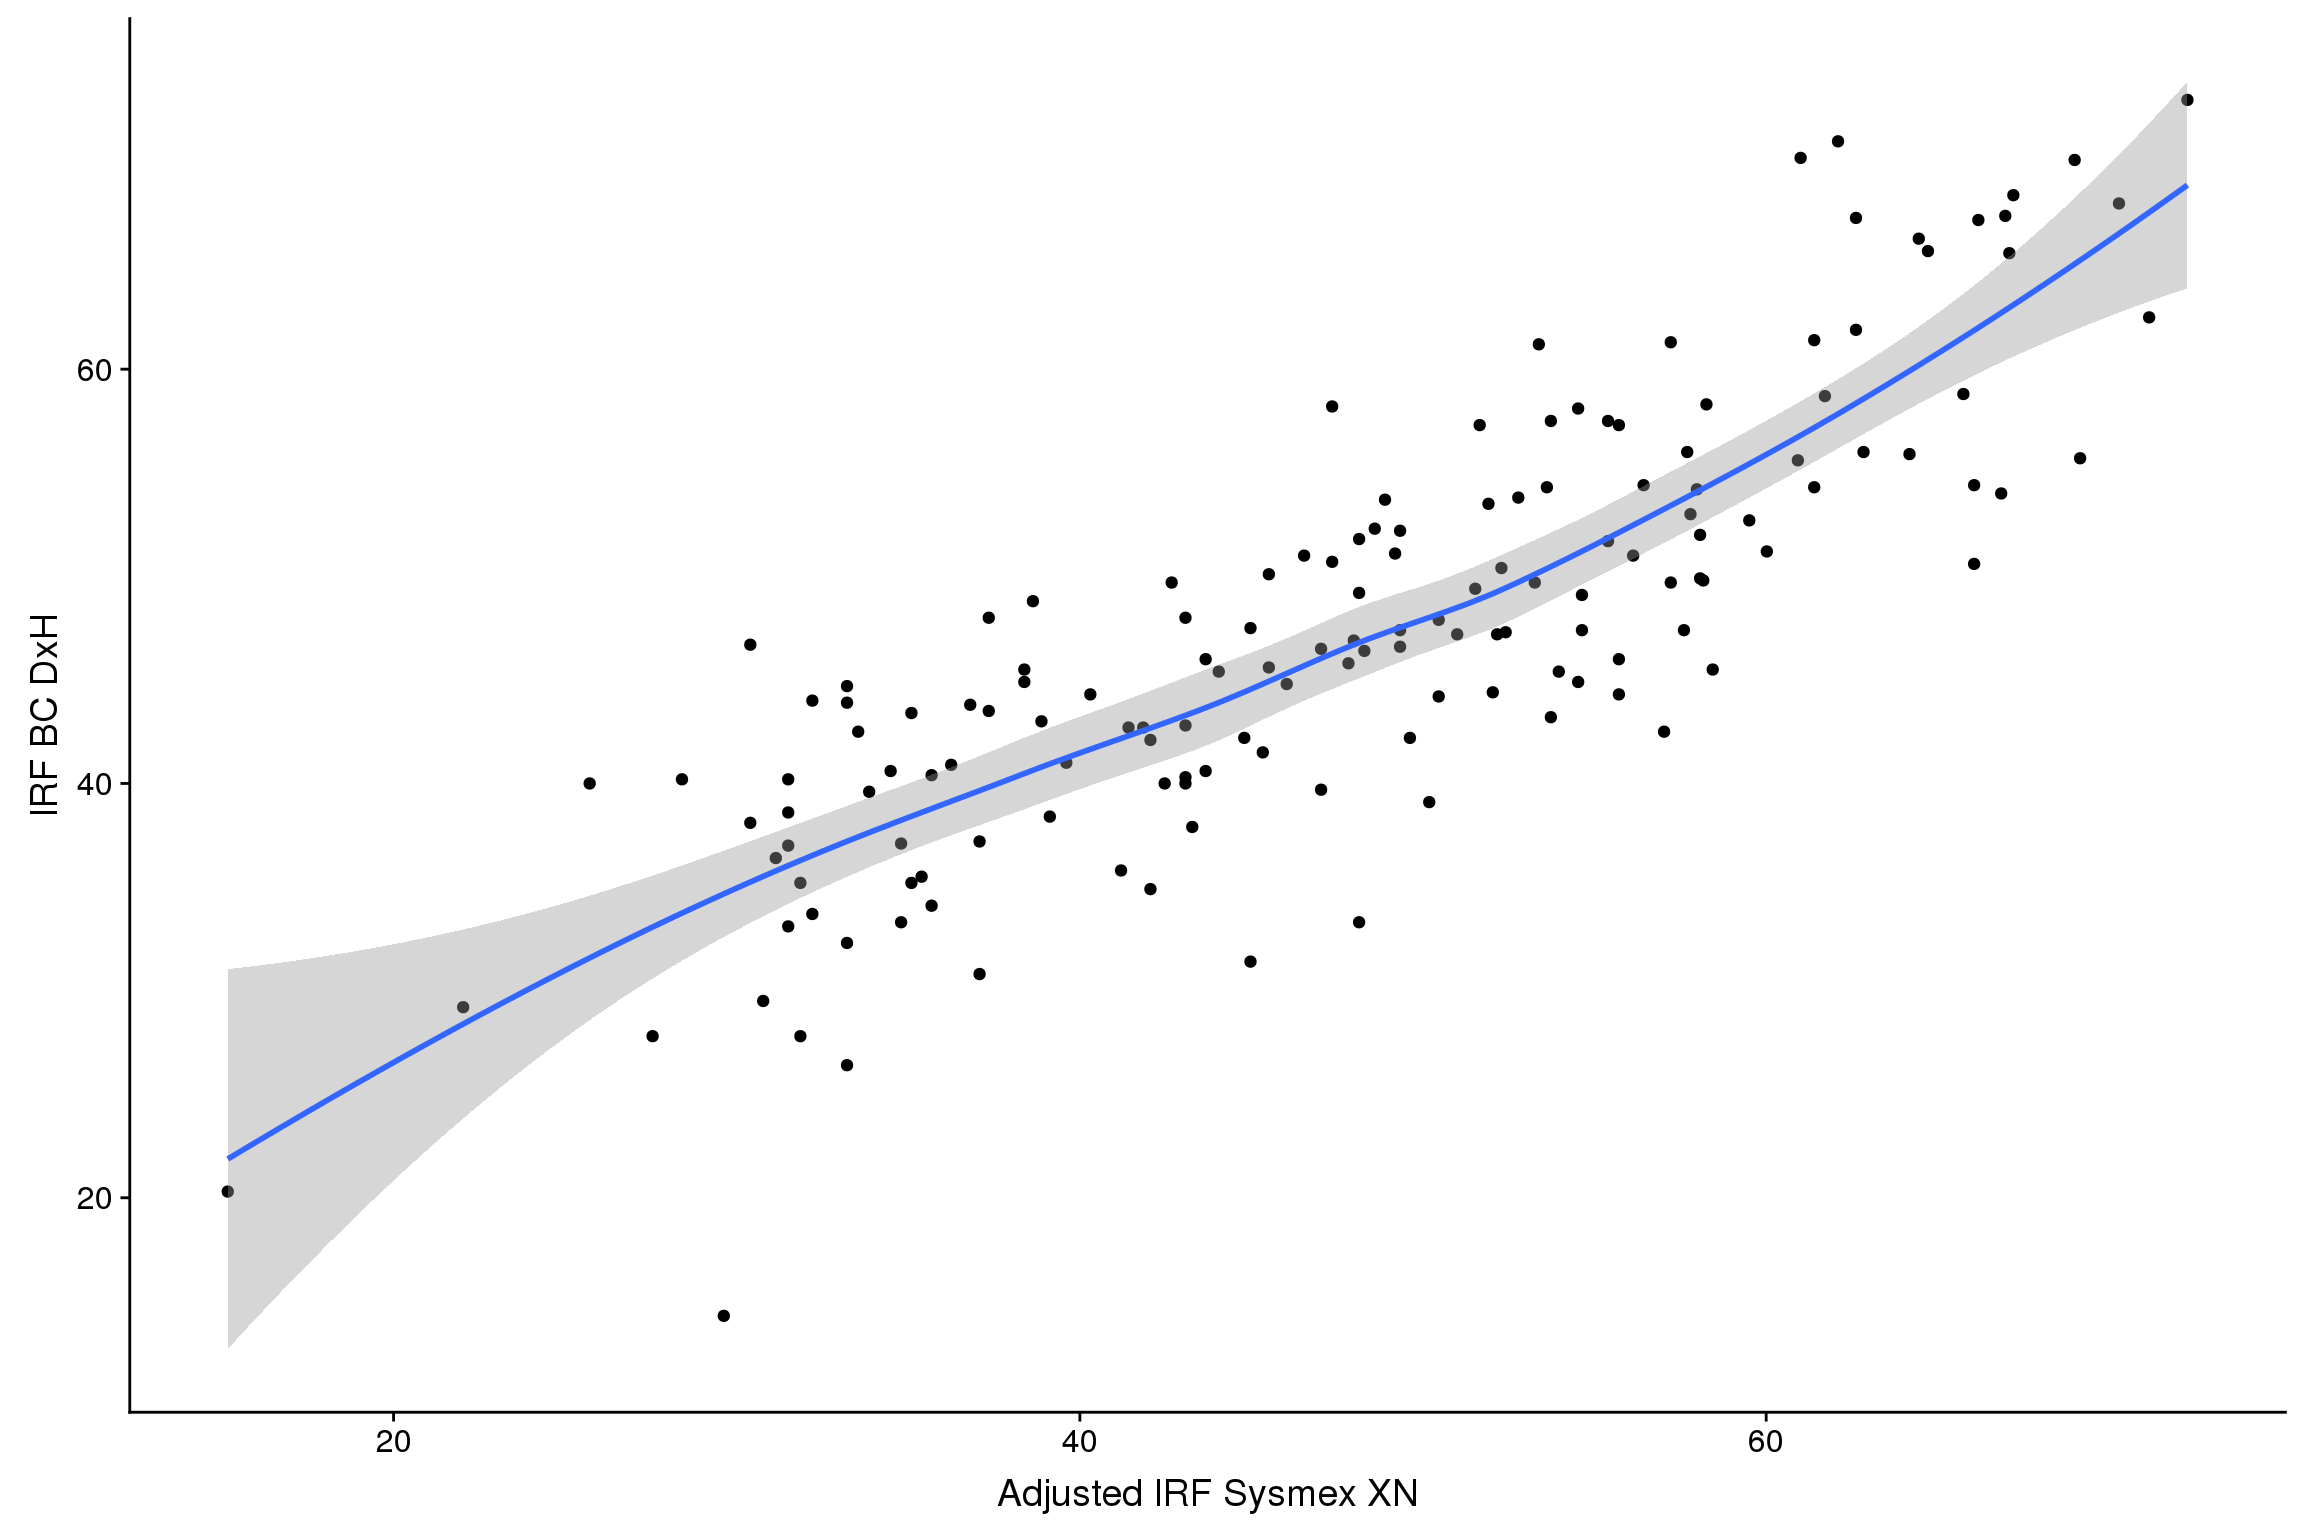
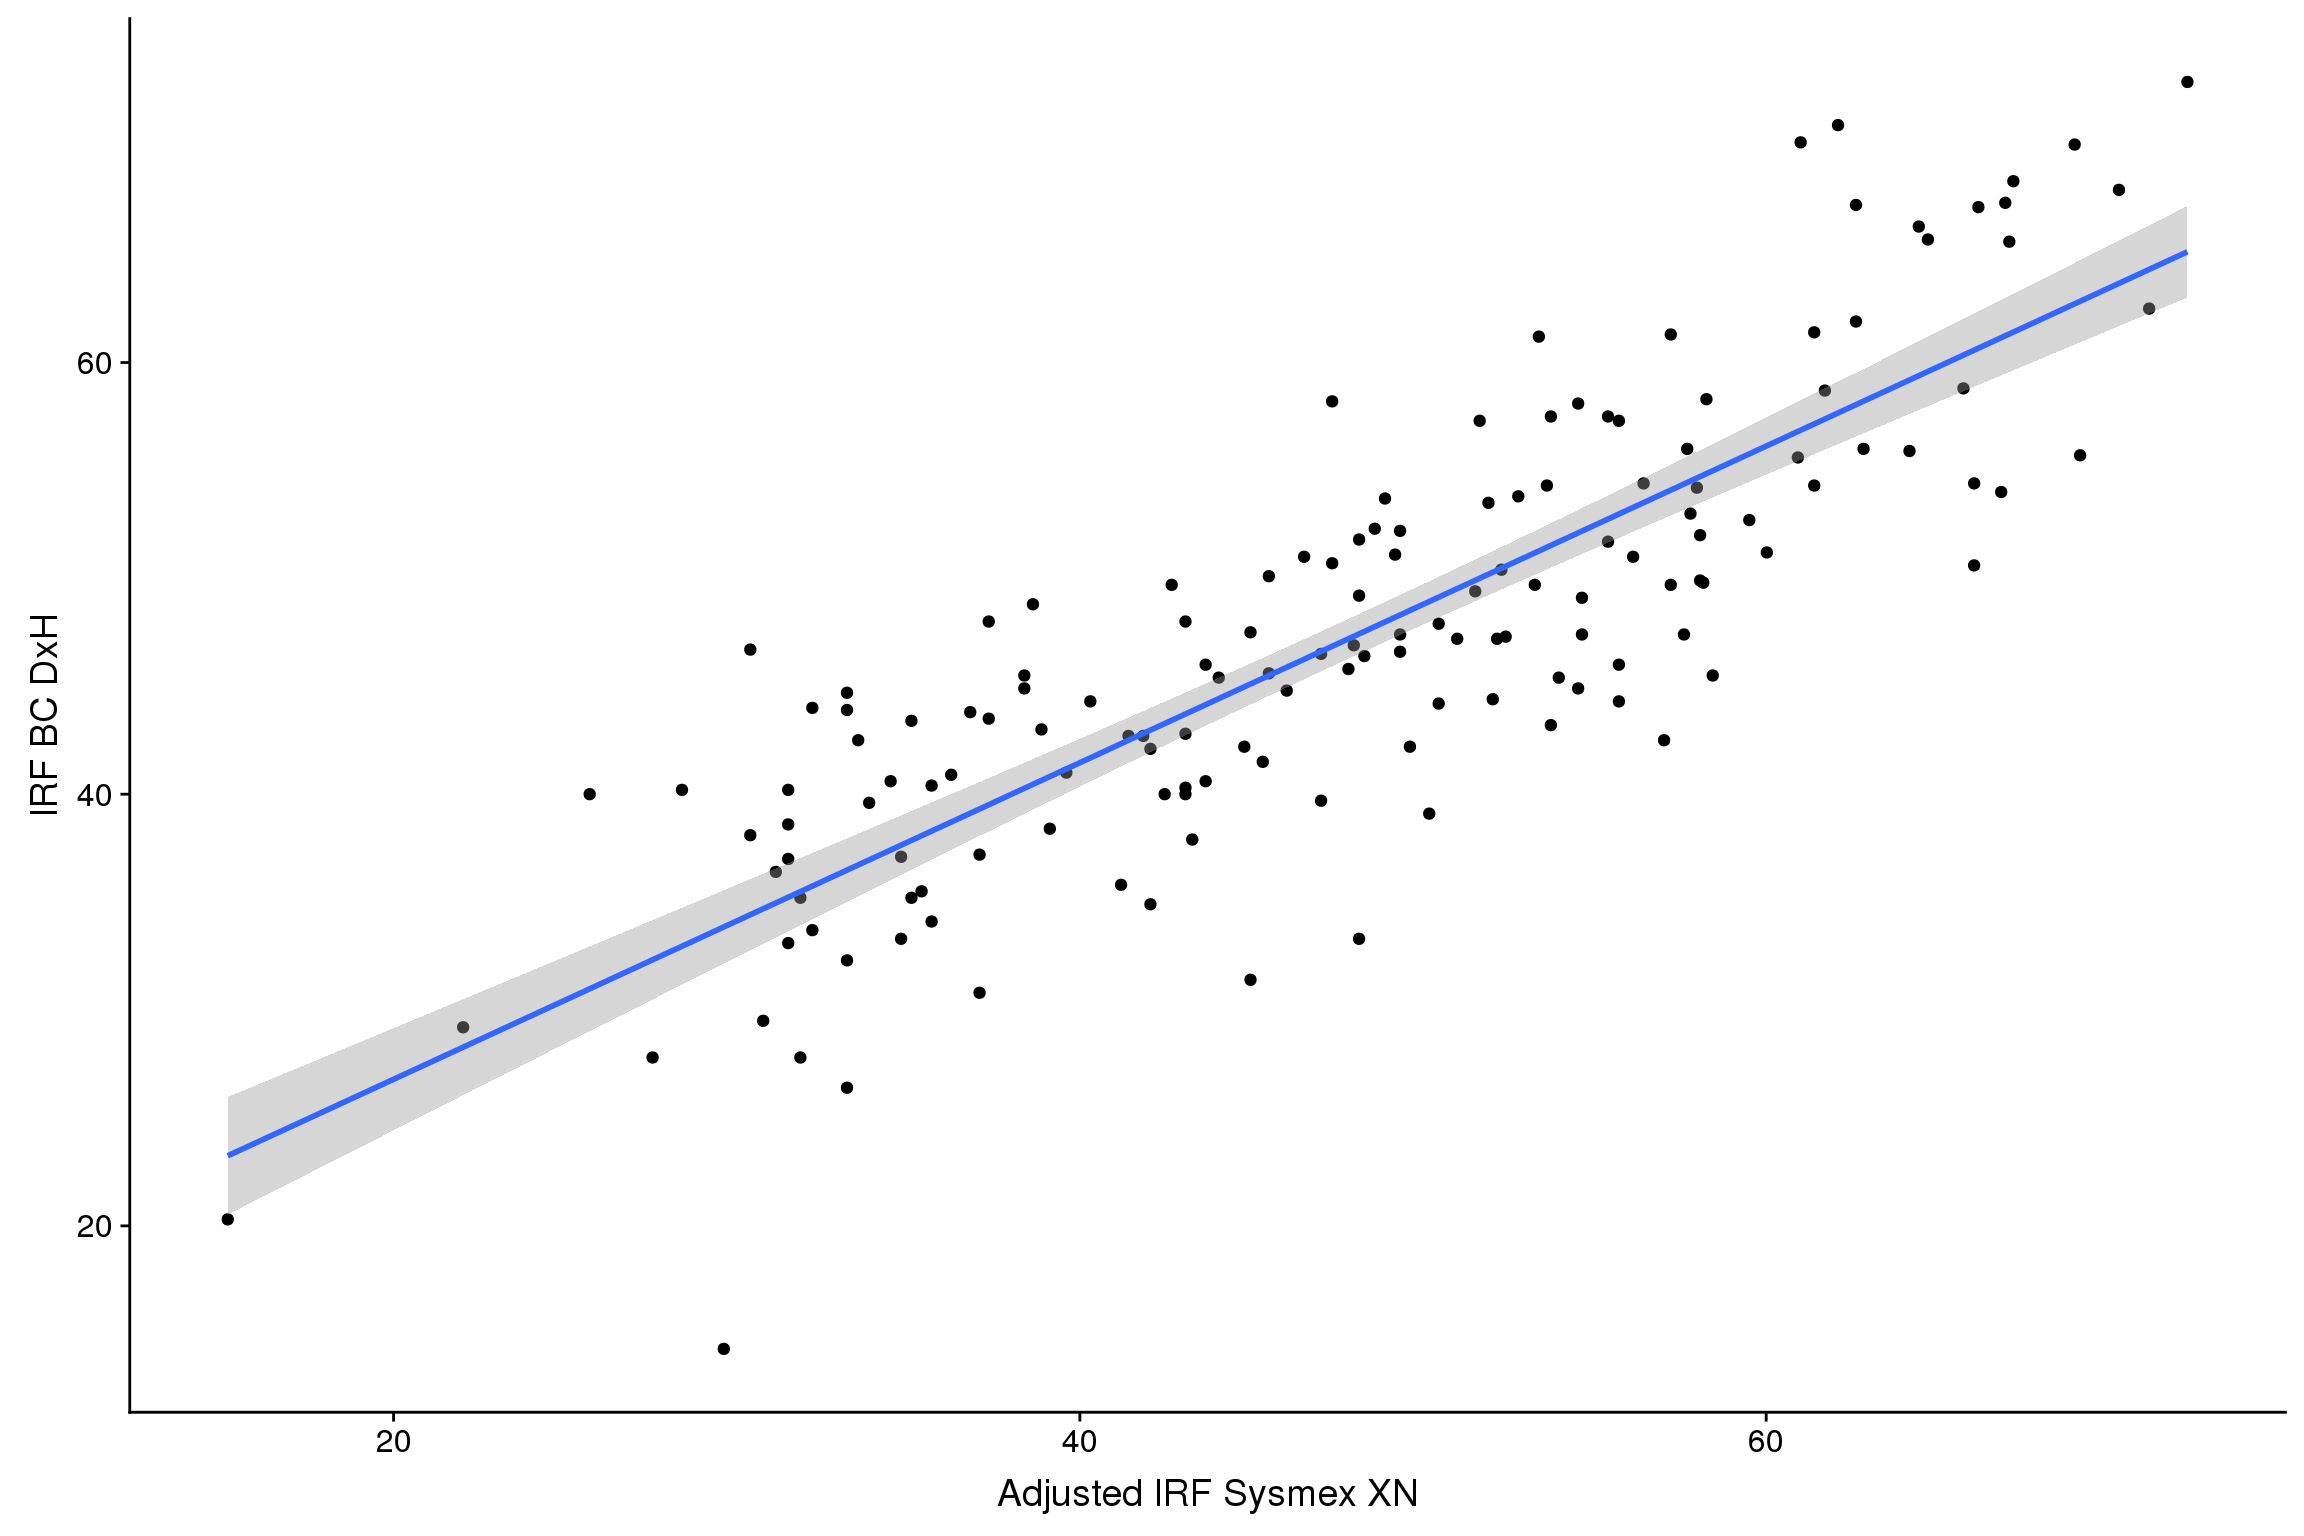
html commit

diff --git a/docs/irf_cor.html b/docs/irf_cor.html
@@ -328,11 +328,12 @@ div.section {
 </div>
 
 
-<p><strong>Last updated:</strong> 2018-09-09</p>
+<p><strong>Last updated:</strong> 2018-10-17</p>
 <strong>workflowr checks:</strong> <small>(Click a bullet for more information)</small>
 <ul>
 <li>
-<p><details> <summary> <strong style="color:red;">✖</strong> <strong>R Markdown file:</strong> uncommitted changes </summary> The R Markdown file has unstaged changes. To know which version of the R Markdown file created these results, you’ll want to first commit it to the Git repo. If you’re still working on the analysis, you can ignore this warning. When you’re finished, you can run <code>wflow_publish</code> to commit the R Markdown file and build the HTML.</p>
+<p><details> <summary> <strong style="color:blue;">✔</strong> <strong>R Markdown file:</strong> up-to-date </summary></p>
+<p>Great! Since the R Markdown file has been committed to the Git repository, you know the exact version of the code that produced these results.</p>
 </details>
 </li>
 <li>
@@ -351,7 +352,7 @@ div.section {
 </details>
 </li>
 <li>
-<p><details> <summary> <strong style="color:blue;">✔</strong> <strong>Repository version:</strong> <a href="https://github.com/amromeo/icsh_irf/tree/7a5d10bd5189677beefdb85b717255bcd9ca9ba1" target="_blank">7a5d10b</a> </summary></p>
+<p><details> <summary> <strong style="color:blue;">✔</strong> <strong>Repository version:</strong> <a href="https://github.com/amromeo/icsh_irf/tree/448c5e8e1a9e93ce3c99d560c3bc59398765640f" target="_blank">448c5e8</a> </summary></p>
 Great! You are using Git for version control. Tracking code development and connecting the code version to the results is critical for reproducibility. The version displayed above was the version of the Git repository at the time these results were generated. <br><br> Note that you need to be careful to ensure that all relevant files for the analysis have been committed to Git prior to generating the results (you can use <code>wflow_publish</code> or <code>wflow_git_commit</code>). workflowr only checks the R Markdown file, but you know if there are other scripts or data files that it depends on. Below is the status of the Git repository when the results were generated:
 <pre><code>
 Ignored files:
@@ -368,12 +369,15 @@ Ignored files:
     Ignored:    data/7-3-18/
     Ignored:    data/8-1-18/
     Ignored:    library/
+    Ignored:    prepped_data/horiba.Rdata
+
+Untracked files:
+    Untracked:  functions/base_plots.R
+    Untracked:  output/demsdf.Rdata
+    Untracked:  plots/
 
 Unstaged changes:
-    Modified:   .Rprofile
-    Modified:   analysis/irf_cor.Rmd
-    Modified:   analysis/xn_8600.Rmd
-    Modified:   functions/funs.R
+    Modified:   analysis/horiba_data.Rmd
 
 </code></pre>
 Note that any generated files, e.g. HTML, png, CSS, etc., are not included in this status report because it is ok for generated content to have uncommitted changes. </details>
@@ -402,6 +406,74 @@ Message
 </tr>
 </thead>
 <tbody>
+<tr>
+<td style="text-align:left;">
+Rmd
+</td>
+<td style="text-align:left;">
+<a href="https://github.com/amromeo/icsh_irf/blob/448c5e8e1a9e93ce3c99d560c3bc59398765640f/analysis/irf_cor.Rmd" target="_blank">448c5e8</a>
+</td>
+<td style="text-align:left;">
+Amrom
+</td>
+<td style="text-align:left;">
+2018-10-17
+</td>
+<td style="text-align:left;">
+newcv
+</td>
+</tr>
+<tr>
+<td style="text-align:left;">
+Rmd
+</td>
+<td style="text-align:left;">
+<a href="https://github.com/amromeo/icsh_irf/blob/a68e164ee5a66b44c3debfc890c76c3cc34ebbfe/analysis/irf_cor.Rmd" target="_blank">a68e164</a>
+</td>
+<td style="text-align:left;">
+Amrom
+</td>
+<td style="text-align:left;">
+2018-10-17
+</td>
+<td style="text-align:left;">
+cv
+</td>
+</tr>
+<tr>
+<td style="text-align:left;">
+Rmd
+</td>
+<td style="text-align:left;">
+<a href="https://github.com/amromeo/icsh_irf/blob/f15bdd9a33052222e53c62400e51335f8b513e34/analysis/irf_cor.Rmd" target="_blank">f15bdd9</a>
+</td>
+<td style="text-align:left;">
+Amrom
+</td>
+<td style="text-align:left;">
+2018-09-09
+</td>
+<td style="text-align:left;">
+xn/8600 finalish
+</td>
+</tr>
+<tr>
+<td style="text-align:left;">
+html
+</td>
+<td style="text-align:left;">
+<a href="https://cdn.rawgit.com/amromeo/icsh_irf/f15bdd9a33052222e53c62400e51335f8b513e34/docs/irf_cor.html" target="_blank">f15bdd9</a>
+</td>
+<td style="text-align:left;">
+Amrom
+</td>
+<td style="text-align:left;">
+2018-09-09
+</td>
+<td style="text-align:left;">
+xn/8600 finalish
+</td>
+</tr>
 <tr>
 <td style="text-align:left;">
 html
@@ -658,7 +730,7 @@ correlation
 </div>
 <div id="plots" class="section level2">
 <h2>Plots</h2>
-<p>Data was visualized with dot plots overlayed with loess smooth curves. Plot A below demonstrates a non-linear relationship between results from the two analyzers. Logarithmic transformation of the XN IRF results yielded a more linear relationship. As a result Deming regression was pursued using log transformed XN data.</p>
+<p>Data was visualized with dot plots overlayed with loess smooth curves. Plot A below demonstrates a non-linear relationship between results from the two analyzers. Logarithmic transformation of the XN IRF results yielded a more linear relationship. As a result Passing Bablok regression was pursued using log transformed XN data.</p>
 <p><img src="figure/irf_cor.Rmd/unnamed-chunk-5-1.png" width="1152" style="display: block; margin: auto;" /></p>
 <details> <summary><em>Expand here to see past versions of unnamed-chunk-5-1.png:</em></summary>
 <table style="border-collapse:separate; border-spacing:5px;">
@@ -807,9 +879,9 @@ Amrom
 </table>
 <p></details></p>
 </div>
-<div id="deming-regression" class="section level2">
-<h2>Deming regression</h2>
-<p>A Deming regression model was fitted using the log transformed XN IRF data and the raw DxH data.</p>
+<div id="passing-bablok-regression" class="section level2">
+<h2>Passing Bablok regression</h2>
+<p>A Passing Bablok regression model was fitted using the log transformed XN IRF data and the raw DxH data.</p>
 <p>Results demonstrate a pearson correlation coefficient of 0.833. Slope estimate was 45.35 (95% CI 50.492-40.658) and intercept was -2.075 (95% CI 2.853–8.318). The model is plotted below.</p>
 <p><img src="figure/irf_cor.Rmd/unnamed-chunk-8-1.png" width="1152" style="display: block; margin: auto;" /></p>
 <details> <summary><em>Expand here to see past versions of unnamed-chunk-8-1.png:</em></summary>
@@ -937,6 +1009,17 @@ Date
 <tbody>
 <tr>
 <td style="text-align:left;">
+<a href="https://github.com/amromeo/icsh_irf/blob/f15bdd9a33052222e53c62400e51335f8b513e34/docs/figure/irf_cor.Rmd/unnamed-chunk-10-1.png" target="_blank">f15bdd9</a>
+</td>
+<td style="text-align:left;">
+Amrom
+</td>
+<td style="text-align:left;">
+2018-09-09
+</td>
+</tr>
+<tr>
+<td style="text-align:left;">
 <a href="https://github.com/amromeo/icsh_irf/blob/7a5d10bd5189677beefdb85b717255bcd9ca9ba1/docs/figure/irf_cor.Rmd/unnamed-chunk-10-1.png" target="_blank">7a5d10b</a>
 </td>
 <td style="text-align:left;">
@@ -972,6 +1055,41 @@ Amrom
 </table>
 <p></details></p>
 <p><img src="figure/irf_cor.Rmd/unnamed-chunk-11-1.png" width="1152" style="display: block; margin: auto;" /></p>
+<details> <summary><em>Expand here to see past versions of unnamed-chunk-11-1.png:</em></summary>
+<table style="border-collapse:separate; border-spacing:5px;">
+<thead>
+<tr>
+<th style="text-align:left;">
+Version
+</th>
+<th style="text-align:left;">
+Author
+</th>
+<th style="text-align:left;">
+Date
+</th>
+</tr>
+</thead>
+<tbody>
+<tr>
+<td style="text-align:left;">
+<a href="https://github.com/amromeo/icsh_irf/blob/f15bdd9a33052222e53c62400e51335f8b513e34/docs/figure/irf_cor.Rmd/unnamed-chunk-11-1.png" target="_blank">f15bdd9</a>
+</td>
+<td style="text-align:left;">
+Amrom
+</td>
+<td style="text-align:left;">
+2018-09-09
+</td>
+</tr>
+</tbody>
+</table>
+<p></details></p>
+</div>
+<div id="simulated-harmonization" class="section level2">
+<h2>Simulated Harmonization</h2>
+<p>We next calculated the the coefficient of variation between measures of IRF from the instruments and after simulated harmonization. Simulated harmonization means using the results of the Passing-Bablok regression to predict how a calibration procedure would alter the results. These simultated results are then used to calculate a predicted coefficient of variation after a calibration procedure.</p>
+<p>Using the original IRF data, the CV between the methods is 0.7806848. After adjust the data using the regression equation, the CV reduces to 0.497544. This result is statistically significant (P=<code>cv_pvalue</code>)</p>
 </div>
 <div id="session-information" class="section level2">
 <h2>Session information</h2>
@@ -1002,7 +1120,7 @@ loaded via a namespace (and not attached):
  [1] Rcpp_0.12.18      cellranger_1.1.0  pillar_1.3.0     
  [4] compiler_3.5.0    git2r_0.23.0      plyr_1.8.4       
  [7] workflowr_1.1.1   bindr_0.1.1       R.methodsS3_1.7.1
-[10] R.utils_2.7.0     tools_3.5.0       digest_0.6.16    
+[10] R.utils_2.7.0     tools_3.5.0       digest_0.6.17    
 [13] jsonlite_1.5      evaluate_0.11     tibble_1.4.2     
 [16] gtable_0.2.0      pkgconfig_2.0.2   rlang_0.2.2      
 [19] yaml_2.2.0        withr_2.1.2       htmlwidgets_0.8  
